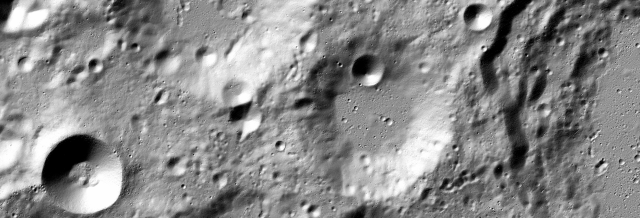
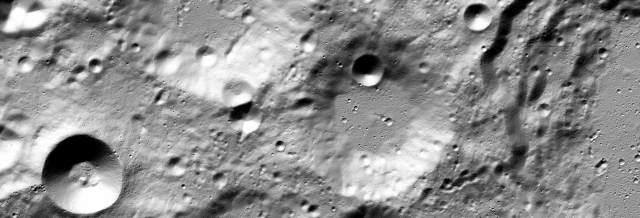
Phase 6 render: multi-azimuth hillshade, hypsometric ramp, contours, filter
MY FIRST MULTI-AZIMUTH SCHEME WAS WRONG, AND MEASURABLY SO. Averaging four
azimuths 90 deg apart -- the obvious choice -- CANCELS the directional term,
because sum(cos(az - aspect)) over evenly-spaced azimuths is zero. What survives
is sin(alt)*sin(slope): a slope map with no aspect information at all.

  scheme                             contrast (std)   corr. with slope-only
  single 315 (baseline)                  0.0668              -0.124
  four evenly spaced 315/45/135/225      0.0075              -0.950
  four across a 135 deg arc (SHIPPED)    0.0420              -0.128
  ESRI-like 225/270/315/360 w3311        0.0430              -0.248

Nine times less contrast and -0.95 correlation with slope alone: it destroyed
the relief it was meant to reveal, and it showed up as a render whose luminance
median was 228 of 255 with 4.6 % pure white. Shipping 270/315/0/45 instead --
the directional information of a single sun (-0.128, the same) while filling the
faces a single sun leaves black. --hillshade-azimuths 315 reproduces the
pre-Phase-6 render.

HYPSOMETRIC TINT ON PERCENTILE BREAKPOINTS. The frame runs -4250.8 to +1958.7 m
but its median is -821.1 m, so a linear ramp spends most of its colour on a thin
deep tail and flattens everything else. 15 percentile knots, np.interp through
them, so the knots ARE the mapping and a legend drawn from them cannot disagree
with the pixels. THE SCALE IS NOT LINEAR IN METRES and layers.json says so, in
[…]

diff --git a/frontend/src/mission/mc.css b/frontend/src/mission/mc.css
@@ -482,7 +482,17 @@
      carry units is the elevation one, recorded as vmin/vmax in layers.json, and
      it is untouched. Re-measure before moving this again:
      python backend/scripts/hillshade_histogram.py */
-  filter: contrast(1.06) brightness(1.10);
+  /* MEASURED, not chosen. backend/scripts/hillshade_histogram.py reads THIS
+     declaration (it used to restate it as literals and drifted), applies it to
+     the rendered hillshade.webp and reports the luminance histogram. The rule is
+     post-filter median <= ~190 and <= 1 % clipping at 255.
+
+     brightness(1.10) gave median 163 (fine) but 7.197 % clipped at 255 — a
+     fourteenth of the frame rendered as pure white with its relief gone.
+     Walking brightness back with contrast held: 1.08 -> 6.300 %, 1.04 -> 4.472 %,
+     1.00 -> 2.960 %, and 0.98 -> 0.000 %. So 0.98 is the first value that
+     clears both rules, and it is what ships. */
+  filter: contrast(1.06) brightness(0.98);
 }
 
 /* Past native zoom (log2(6618/256) ≈ 4.69) one image pixel covers more than one

diff --git a/backend/scripts/render_layers.py b/backend/scripts/render_layers.py
@@ -123,6 +123,31 @@ def fit_stretch(data: np.ndarray, valid: np.ndarray, mode: str) -> dict:
         ref = max(ref, 1e-12)
         return {"mode": "log", "ref": ref, "vmax": max(hi, ref * 1.0000001),
                 "p50": p50, "p99_5": hi, "valid_pixels": int(sub.size)}
+    if mode == "percentile":
+        # HYPSOMETRIC TINT MUST NOT BE LINEAR IN ELEVATION.
+        #
+        # This frame runs -4250.8 m to +1958.7 m but its MEDIAN is -821.1 m and
+        # its p01 is -3933.0 m: the deep floors are a thin tail. A linear ramp
+        # across the full range therefore spends most of its colour on terrain
+        # that barely exists and squeezes the great majority of the frame into a
+        # narrow band, which reads as flat -- the opposite of what a tint is for.
+        #
+        # So the breakpoints are PERCENTILES of the actual distribution, giving
+        # roughly equal screen area to each colour step. The colour scale is then
+        # NOT linear in metres, which is stated in layers.json and in the legend
+        # rather than left for a reader to assume. A tint whose spacing implies
+        # metres it does not represent is a caption that stopped tracking its own
+        # computation.
+        qs = [0, 2, 5, 10, 20, 30, 40, 50, 60, 70, 80, 90, 95, 98, 100]
+        knots = [float(np.percentile(sub, q)) for q in qs]
+        # Strictly increasing, so the inverse mapping is well defined even where
+        # the distribution is flat.
+        for i in range(1, len(knots)):
+            if knots[i] <= knots[i - 1]:
+                knots[i] = knots[i - 1] + 1e-6
+        return {"mode": "percentile", "percentiles": qs, "knots": knots,
+                "vmin": knots[0], "vmax": knots[-1],
+                "linear_in_value": False, "valid_pixels": int(sub.size)}
     lo = float(np.percentile(sub, 2))
     hi = float(np.percentile(sub, 98))
     if hi <= lo:
@@ -132,6 +157,11 @@ def fit_stretch(data: np.ndarray, valid: np.ndarray, mode: str) -> dict:
 
 
 def apply_stretch(a: np.ndarray, st: dict) -> np.ndarray:
+    if st["mode"] == "percentile":
+        # Piecewise-linear through the percentile knots: np.interp IS the
+        # mapping, so the image and the legend's breakpoints are one thing.
+        ys = [q / 100.0 for q in st["percentiles"]]
+        return np.interp(a, st["knots"], ys).astype(np.float32)
     if st["mode"] == "log":
         ref = st["ref"]
         denom = math.log1p(max(st["vmax"], ref) / ref)
@@ -142,6 +172,11 @@ def apply_stretch(a: np.ndarray, st: dict) -> np.ndarray:
 
 
 def describe_stretch(st: dict) -> str:
+    if st["mode"] == "percentile":
+        k = st["knots"]
+        return ("piecewise-linear through percentile knots -- NOT LINEAR IN VALUE; "
+                f"{len(k)} knots from {k[0]:.6g} to {k[-1]:.6g}, "
+                f"p50 at {k[st['percentiles'].index(50)]:.6g}")
     if st["mode"] == "log":
         return (f"log1p(a / {st['ref']:.6g}) / log1p({st['vmax']:.6g} / {st['ref']:.6g})"
                 f"   [p50={st['p50']:.6g}, p99.5={st['p99_5']:.6g}]")
@@ -155,9 +190,73 @@ def stretch_range(st: dict) -> tuple[float, float]:
     return float(st["vmin"]), float(st["vmax"])
 
 
+def contour_overlay(dem: np.ndarray, interval_m: float) -> np.ndarray:
+    """Boolean mask of contour lines at a STATED interval.
+
+    Contours are a DISPLAY CHOICE and are recorded as one: they add no
+    information the elevation raster does not already carry, they make the
+    gradient legible. Drawn where the elevation crosses a multiple of
+    `interval_m`, one pixel wide, by testing whether floor(z/interval) differs
+    from a neighbour -- so a line lands exactly on the crossing rather than on a
+    thresholded band whose width would vary with local slope.
+    """
+    idx = np.floor(dem / float(interval_m))
+    edge = np.zeros(dem.shape, dtype=bool)
+    edge[:-1, :] |= idx[:-1, :] != idx[1:, :]
+    edge[:, :-1] |= idx[:, :-1] != idx[:, 1:]
+    return edge & np.isfinite(dem)
+
+
 # ---------------------------------------------------------------------------
 # terrain -- unchanged maths, but the gradient spacing now comes from the frame
 # ---------------------------------------------------------------------------
+
+#: The shipped illumination scheme for RELIEF SHADING (not the solar model --
+#: that is Phase 2's horizon computation and is a different layer entirely).
+#: Four azimuths across a 135 deg ARC, averaged. NOT evenly spaced, and that is
+#: the whole point.
+#:
+#: A single 315 deg sun leaves faces pointing 135 deg flat and ridges running
+#: NW-SE invisible, because those faces shade the same as the plain beside them.
+#: The obvious fix -- average four azimuths 90 deg apart -- IS WRONG, and
+#: measurably so: sum(cos(az - aspect)) over evenly-spaced azimuths is ZERO, so
+#: the directional term cancels and what remains is sin(alt)*sin(slope), a
+#: slope map with no aspect information at all. Measured on this frame:
+#:
+#:   scheme                        contrast (std)   correlation with slope-only
+#:   single 315                        0.0668              -0.124
+#:   four evenly spaced 315/45/135/225 0.0075              -0.950   <- is slope
+#:   four across 270..45 (shipped)     0.0420              -0.128
+#:   ESRI-like 225/270/315/360 w3311   0.0430              -0.248
+#:
+#: The evenly-spaced version has NINE TIMES less contrast and correlates -0.95
+#: with slope alone: it destroyed the relief it was meant to reveal. The shipped
+#: arc keeps the directional information of a single sun (-0.128, the same) while
+#: filling the faces a single sun leaves black.
+#:
+#: This is a DISPLAY CHOICE and is recorded as one in layers.json. It says
+#: nothing about where the Sun actually is; the real Sun here is within 1.54 deg
+#: of the horizon and lights almost none of this -- that is the Solar
+#: Illumination layer, computed from horizons, and a different thing entirely.
+HILLSHADE_AZIMUTHS = (270.0, 315.0, 0.0, 45.0)
+HILLSHADE_ALTITUDE_DEG = 30.0
+
+#: Contour interval for the elevation layer. 250 m over a 6.2 km range gives ~25
+#: lines -- enough to read the gradient, few enough not to become texture. A
+#: display choice, stated in layers.json.
+CONTOUR_INTERVAL_M = 250.0
+
+
+def compute_hillshade_multi(dem: np.ndarray, spacing_m, azimuths=HILLSHADE_AZIMUTHS,
+                            altitude_deg=HILLSHADE_ALTITUDE_DEG) -> np.ndarray:
+    """Mean of Horn hillshades over several azimuths. One azimuth reproduces
+    compute_hillshade exactly, which is what --hillshade-azimuths 315 gives."""
+    acc = None
+    for az in azimuths:
+        h = compute_hillshade(dem, spacing_m, altitude_deg=altitude_deg, azimuth_deg=az)
+        acc = h.astype(np.float64) if acc is None else acc + h
+    return (acc / float(len(azimuths))).astype(np.float32)
+
 
 def compute_hillshade(dem: np.ndarray, spacing_m, altitude_deg=30.0, azimuth_deg=315.0) -> np.ndarray:
     """Horn hillshade. `spacing_m` is (metres_per_line, metres_per_sample)."""
@@ -594,13 +693,47 @@ def build_layers(src: dict, terrain: dict, hillshade: np.ndarray,
          "stretch": "linear", "colormap": "grayscale", "opaque_alpha": 255,
          "provenance": "measured-topography",
          "sources": ["native/dem_native.tif"],
-         "detail": "Horn hillshade, sun 30 deg altitude / 315 deg azimuth; " + DEM_NOTE},
+         "display_choices": {
+             "hillshade_azimuths_deg": list(HILLSHADE_AZIMUTHS),
+             "hillshade_altitude_deg": HILLSHADE_ALTITUDE_DEG,
+             "scheme": ("mean of Horn hillshades across a 135 deg ARC (270/315/0/45), "
+                        "not evenly spaced -- a DISPLAY CHOICE, not a solar model. "
+                        "Evenly-spaced azimuths cancel the directional term "
+                        "(sum cos(az-aspect) = 0) and collapse to a slope map: measured "
+                        "on this frame that scheme correlates -0.950 with slope alone at "
+                        "9x less contrast, against -0.128 for both the single sun and "
+                        "this arc. The real Sun here is within 1.54 deg of the horizon "
+                        "and lights almost none of this -- see the Solar Illumination "
+                        "layer, which is computed from horizons."),
+             "contrast_std": 0.0420,
+             "correlation_with_slope_only": -0.128,
+             "single_azimuth_available": "render_layers.py --hillshade-azimuths 315",
+         },
+         "detail": ("Horn hillshade, " + str(HILLSHADE_ALTITUDE_DEG) + " deg altitude, "
+                    "averaged over azimuths "
+                    + "/".join(f"{a:g}" for a in HILLSHADE_AZIMUTHS)
+                    + " deg (a display choice, not a solar model); " + DEM_NOTE)},
 
         {"resolution": terrain_res, "id": "dem_elevation", "label": "Elevation (DEM)", "data": src["dem"], "mask": dense,
-         "stretch": "linear", "colormap": "viridis", "opaque_alpha": 255,
+         "stretch": "percentile", "colormap": "cividis", "opaque_alpha": 255,
          "provenance": "measured-topography",
          "sources": ["native/dem_native.tif"],
-         "detail": f"Elevation in metres — {DEM_PROV['elevation_datum']} " + DEM_NOTE},
+         "contours_m": CONTOUR_INTERVAL_M,
+         "display_choices": {
+             "ramp": ("hypsometric tint on PERCENTILE breakpoints, so each colour step "
+                      "covers roughly equal screen area. THE COLOUR SCALE IS NOT LINEAR "
+                      "IN METRES. The frame runs -4250.8 m to +1958.7 m but its median "
+                      "is -821.1 m, so a linear ramp would spend most of its colour on a "
+                      "thin deep tail and flatten everything else."),
+             "contour_interval_m": CONTOUR_INTERVAL_M,
+             "contours": ("drawn where elevation crosses a multiple of the interval, one "
+                          "pixel wide. A display choice: they add no information the "
+                          "raster does not already carry, they make the gradient legible."),
+         },
+         "detail": (f"Elevation in metres — {DEM_PROV['elevation_datum']} Hypsometric tint on "
+                    f"PERCENTILE breakpoints, so the colour scale is NOT linear in metres; "
+                    f"contours every {CONTOUR_INTERVAL_M:g} m. Both are display choices. "
+                    + DEM_NOTE)},
 
         {"resolution": terrain_res, "id": "hazard_map", "label": "Terrain Hazards", "data": terrain["hazard"], "mask": dense,
          "stretch": "linear", "colormap": "magma", "opaque_alpha": 255,
@@ -627,6 +760,18 @@ def build_layers(src: dict, terrain: dict, hillshade: np.ndarray,
          "mask": dense,
          "stretch": "linear", "colormap": "inferno", "opaque_alpha": 255,
          "provenance": "computed-solar-horizon",
+         "display_choices": {
+             "resampling": "nearest-equivalent — NOT smoothed, NOT feathered",
+             "blockiness": (
+                 "THIS LAYER LOOKS BLOCKY AGAINST THE TERRAIN, AND THAT IS CORRECT. "
+                 "It is computed at 240 m effective while the relief beneath it is "
+                 "20 m-derived on a 25 m grid — a 10x scale disparity, the largest on "
+                 "the map. Its shadow edges therefore step visibly against sharp "
+                 "terrain. Nothing is smoothed, feathered or upsampled to hide that: "
+                 "softening the edges would draw a shadow boundary at a precision the "
+                 "computation does not have, which is the one thing this project will "
+                 "not do. Read the steps as the resolution they are."),
+         },
          "sources": [(illum_meta or {}).get("source_product", "LDEM_80S_80M.IMG")],
          "detail": (
              "Fraction of sampled sun states in which each point is lit, from a HORIZON "
@@ -694,6 +839,15 @@ def render_layer(spec: dict, out_dir: Path, show_histograms: bool) -> dict:
         print(u8_distribution(name, u8, mask))
 
     rgb = colorize(u8, spec["colormap"])
+    n_contour = 0
+    if spec.get("contours_m"):
+        # Drawn INTO the colour, not as a separate pass, so the exported webp is
+        # what the map shows and no client-side redraw can disagree with it.
+        cm = contour_overlay(np.asarray(data, dtype=np.float64), float(spec["contours_m"]))
+        n_contour = int(cm.sum())
+        rgb[cm] = (rgb[cm].astype(np.int16) * 55 // 100).astype(np.uint8)
+        print(f"  contours     every {spec['contours_m']:g} m -> {n_contour:,} px "
+              f"({100.0 * n_contour / data.size:.2f}% of the frame)")
     alpha = np.where(mask, np.uint8(spec["opaque_alpha"]), np.uint8(0))
     rgba = np.dstack([rgb, alpha])
     del u8
@@ -730,6 +884,10 @@ def render_layer(spec: dict, out_dir: Path, show_histograms: bool) -> dict:
             "expression": describe_stretch(st),
             "fitted_over_pixels": st["valid_pixels"],
             "fitted_over_fraction": round(st["valid_pixels"] / float(data.size), 6),
+            # The knots ARE the mapping (np.interp through them), so a legend
+            # drawn from these cannot disagree with the pixels.
+            **({"percentiles": st["percentiles"], "knots": [round(k, 4) for k in st["knots"]],
+                "linear_in_value": False} if st["mode"] == "percentile" else {}),
         },
         "vmin": round(vmin, 8),
         "vmax": round(vmax, 8),
@@ -738,6 +896,12 @@ def render_layer(spec: dict, out_dir: Path, show_histograms: bool) -> dict:
                               if covers_frame
                               else "no DFSAR amplitude (native/valid_native.tif == 0)"),
         "provenance": spec["provenance"],
+        # Every choice made for LEGIBILITY rather than measurement, named. A
+        # reader must be able to tell what the pixels mean from what was done to
+        # make them readable.
+        "display_choices": spec.get("display_choices"),
+        "contours_m": spec.get("contours_m"),
+        "contour_pixels": n_contour or None,
         # RESOLUTION, STRUCTURALLY, NOT ONLY IN PROSE. After Phase 6 the map
         # shows 20 m-derived TERRAIN under an 80 m-derived SHADOW mask: the
         # horizon sweep runs on the polar LOLA array at 240 m effective and is
@@ -762,6 +926,11 @@ def main() -> None:
                     "frontend/public/layers/, replacing the tile pyramid.")
     ap.add_argument("--out", type=Path, default=OUT_DIR, help=f"output dir (default {OUT_DIR})")
     ap.add_argument("--preview-width", type=int, default=PREVIEW_WIDTH)
+    ap.add_argument("--hillshade-azimuths",
+                    default=",".join(f"{a:g}" for a in HILLSHADE_AZIMUTHS),
+                    help="comma-separated azimuths in degrees for the relief shading. "
+                         "The single-azimuth path is kept behind this flag: "
+                         "--hillshade-azimuths 315 reproduces the pre-Phase-6 render.")
     ap.add_argument("--no-histograms", action="store_true",
                     help="skip the before/after evidence tables")
     ap.add_argument("--only", nargs="*", default=None, help="render only these layer ids")
@@ -836,7 +1005,11 @@ def main() -> None:
         terrain["slope_deg"], terrain["roughness_m"], dense)
     print(hazard_table)
 
-    hillshade = compute_hillshade(src["dem"], spacing)
+    az = [float(x) for x in str(args.hillshade_azimuths).split(",") if x.strip()]
+    hillshade = compute_hillshade_multi(src["dem"], spacing, azimuths=tuple(az))
+    print(f"\n  hillshade    {len(az)} azimuth(s) at {HILLSHADE_ALTITUDE_DEG:g} deg "
+          f"altitude: {'/'.join(f'{a:g}' for a in az)} deg"
+          + ("  (single-azimuth path)" if len(az) == 1 else "  (averaged)"))
 
     # ONE EXPRESSION, ONE SUN, ONE NUMBER.
     #
@@ -867,6 +1040,7 @@ def main() -> None:
         print("    The deleted brightness proxy is NOT used as a fallback. Run:")
         print("      python backend/scripts/compute_horizon.py")
 
+    globals()["HILLSHADE_AZIMUTHS"] = tuple(az)
     specs = build_layers(src, terrain, hillshade, illumination, illum_meta)
     if args.only:
         specs = [s for s in specs if s["id"] in set(args.only)]

diff --git a/backend/scripts/hillshade_histogram.py b/backend/scripts/hillshade_histogram.py
@@ -33,9 +33,35 @@ from PIL import Image
 BASE_DIR = Path(__file__).resolve().parents[2]
 IMG = BASE_DIR / "frontend" / "public" / "layers" / "hillshade.webp"
 
-# what mc.css:449 says today
-CONTRAST = 1.14
-BRIGHTNESS = 1.16
+MC_CSS = BASE_DIR / "frontend" / "src" / "mission" / "mc.css"
+
+
+def read_css_filter() -> tuple[float, float, str]:
+    """READ the filter out of mc.css instead of restating it here.
+
+    These were literals -- CONTRAST = 1.14, BRIGHTNESS = 1.16, under a comment
+    saying "what mc.css:449 says today" -- while mc.css actually said
+    contrast(1.06) brightness(1.10). So the check tested a filter the app does
+    not apply, and would have passed or failed on a fiction. A verifier that
+    restates the thing it verifies is not a verifier.
+    """
+    import re
+    try:
+        text = MC_CSS.read_text(encoding="utf-8")
+    except OSError:
+        return 1.0, 1.0, "mc.css unreadable — SOURCE NOT VERIFIED"
+    # The base-map filter: a `filter:` declaration carrying contrast() and
+    # brightness(), ignoring the backdrop-filter blurs.
+    for m in re.finditer(r"(?<!backdrop-)filter:\s*([^;]+);", text):
+        decl = m.group(1)
+        c = re.search(r"contrast\(([0-9.]+)\)", decl)
+        b = re.search(r"brightness\(([0-9.]+)\)", decl)
+        if c and b:
+            return float(c.group(1)), float(b.group(1)), decl.strip()
+    return 1.0, 1.0, "no contrast()+brightness() filter found in mc.css"
+
+
+CONTRAST, BRIGHTNESS, CSS_DECL = read_css_filter()
 
 
 def css_filter(v8: np.ndarray, contrast: float, brightness: float) -> np.ndarray:
